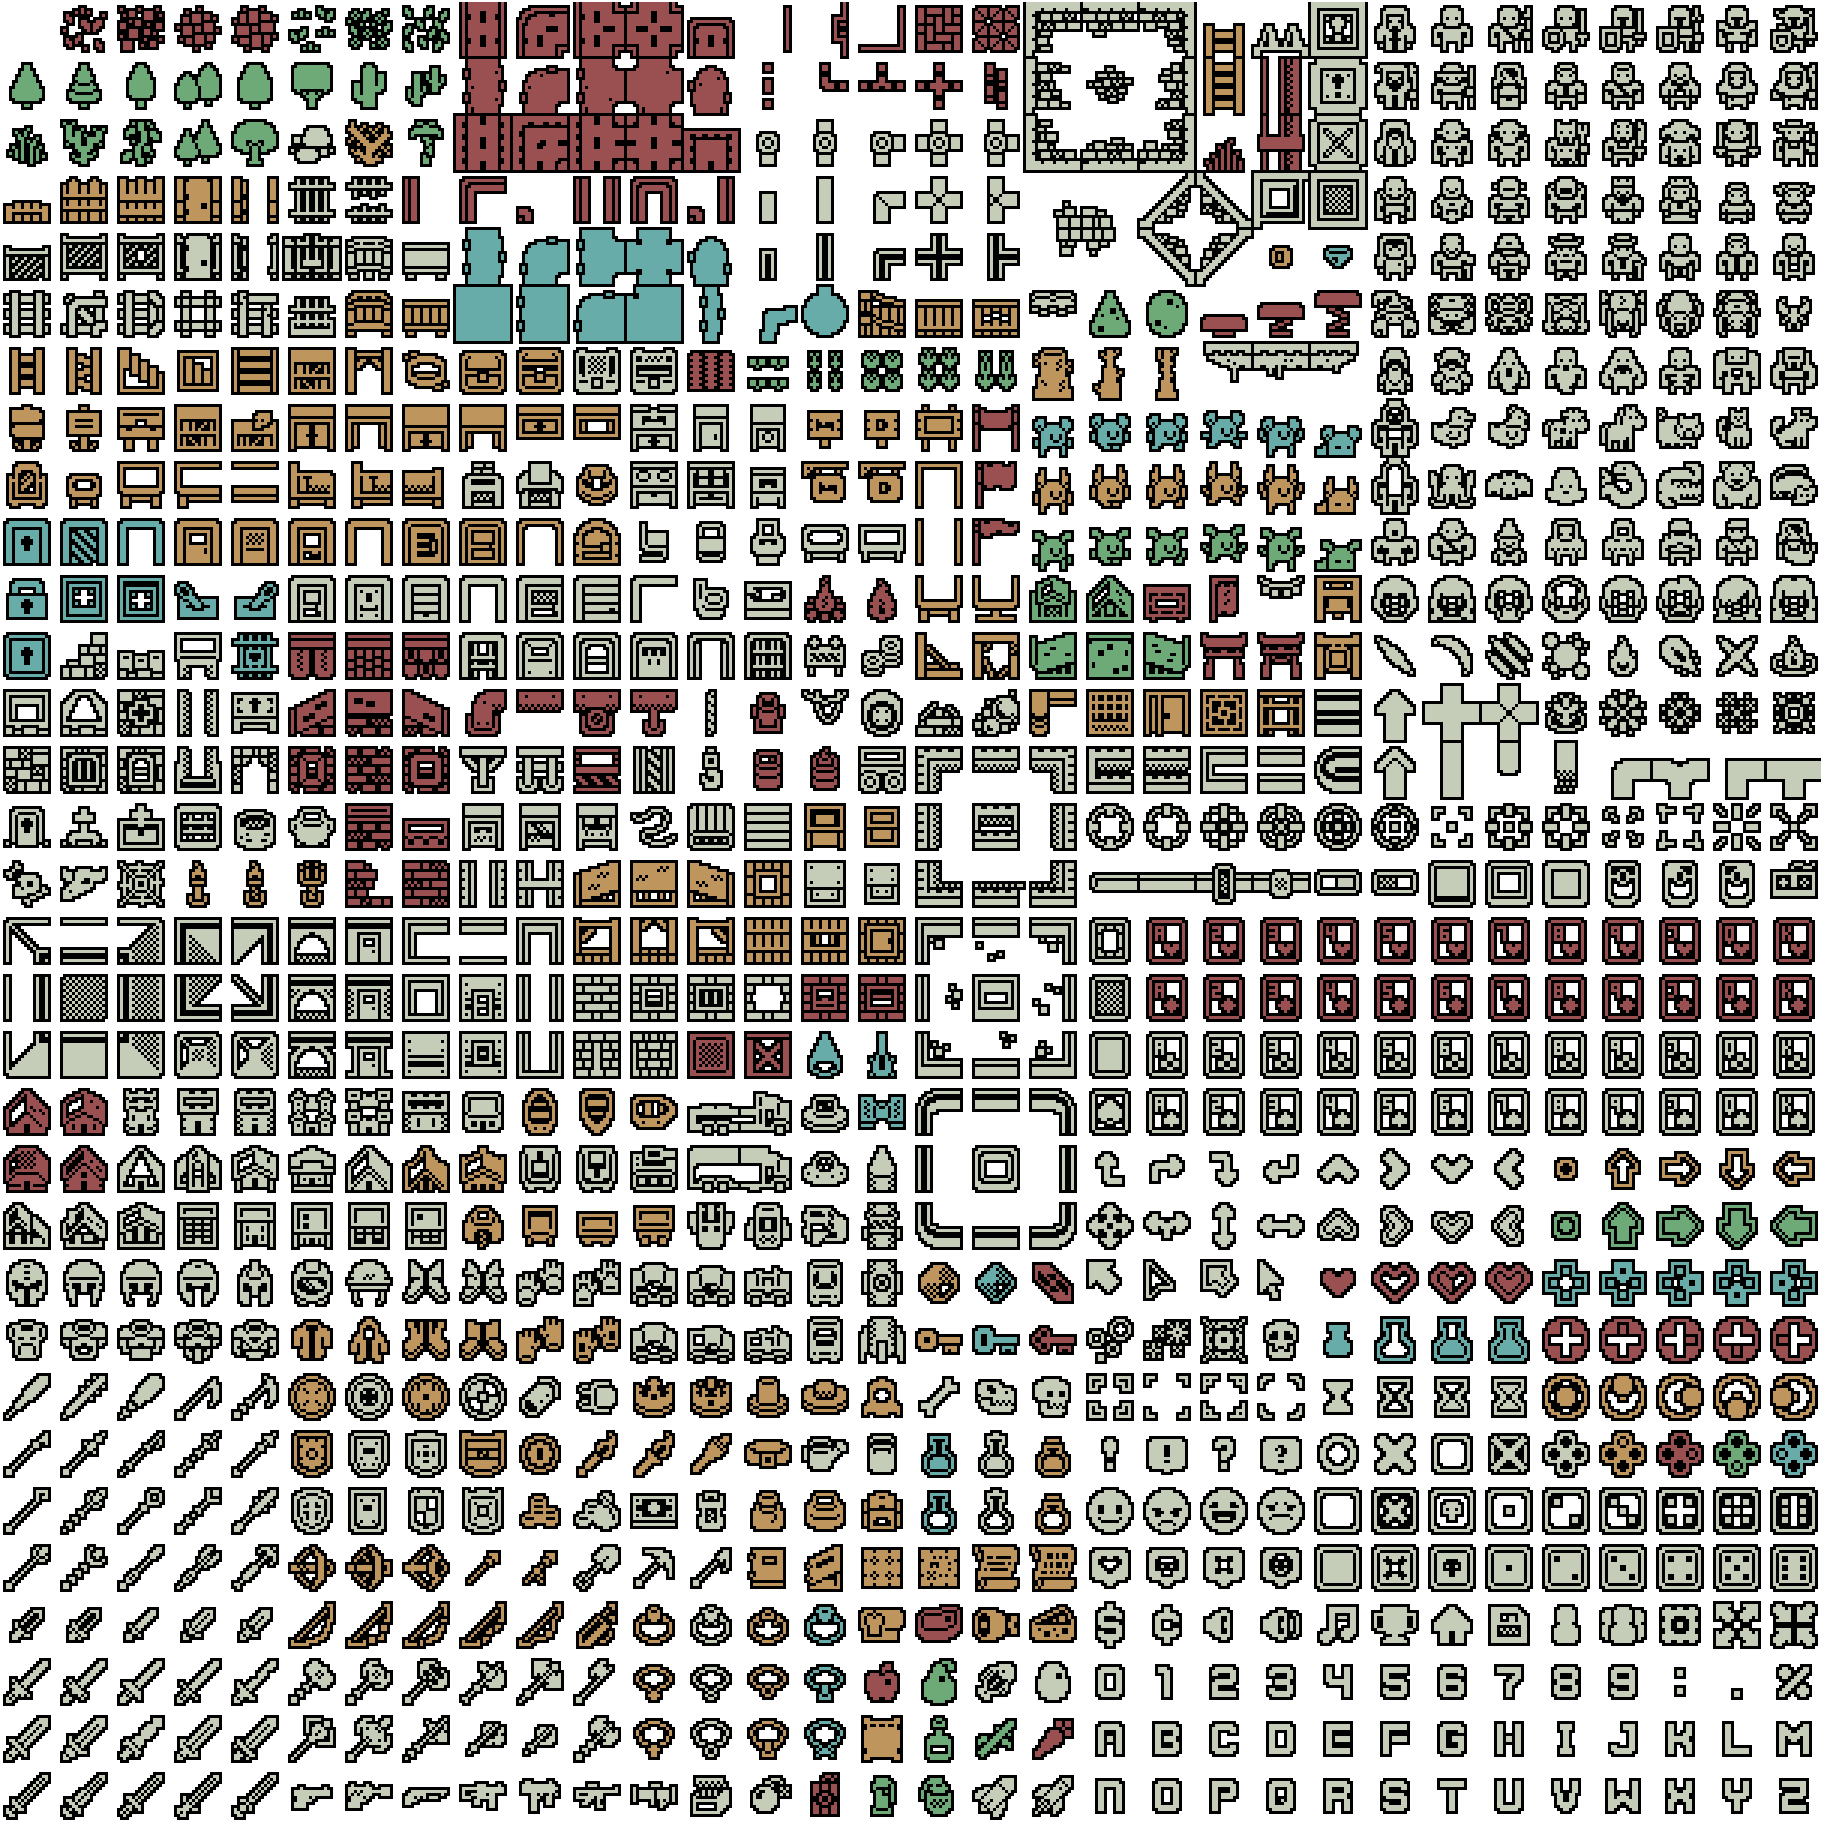
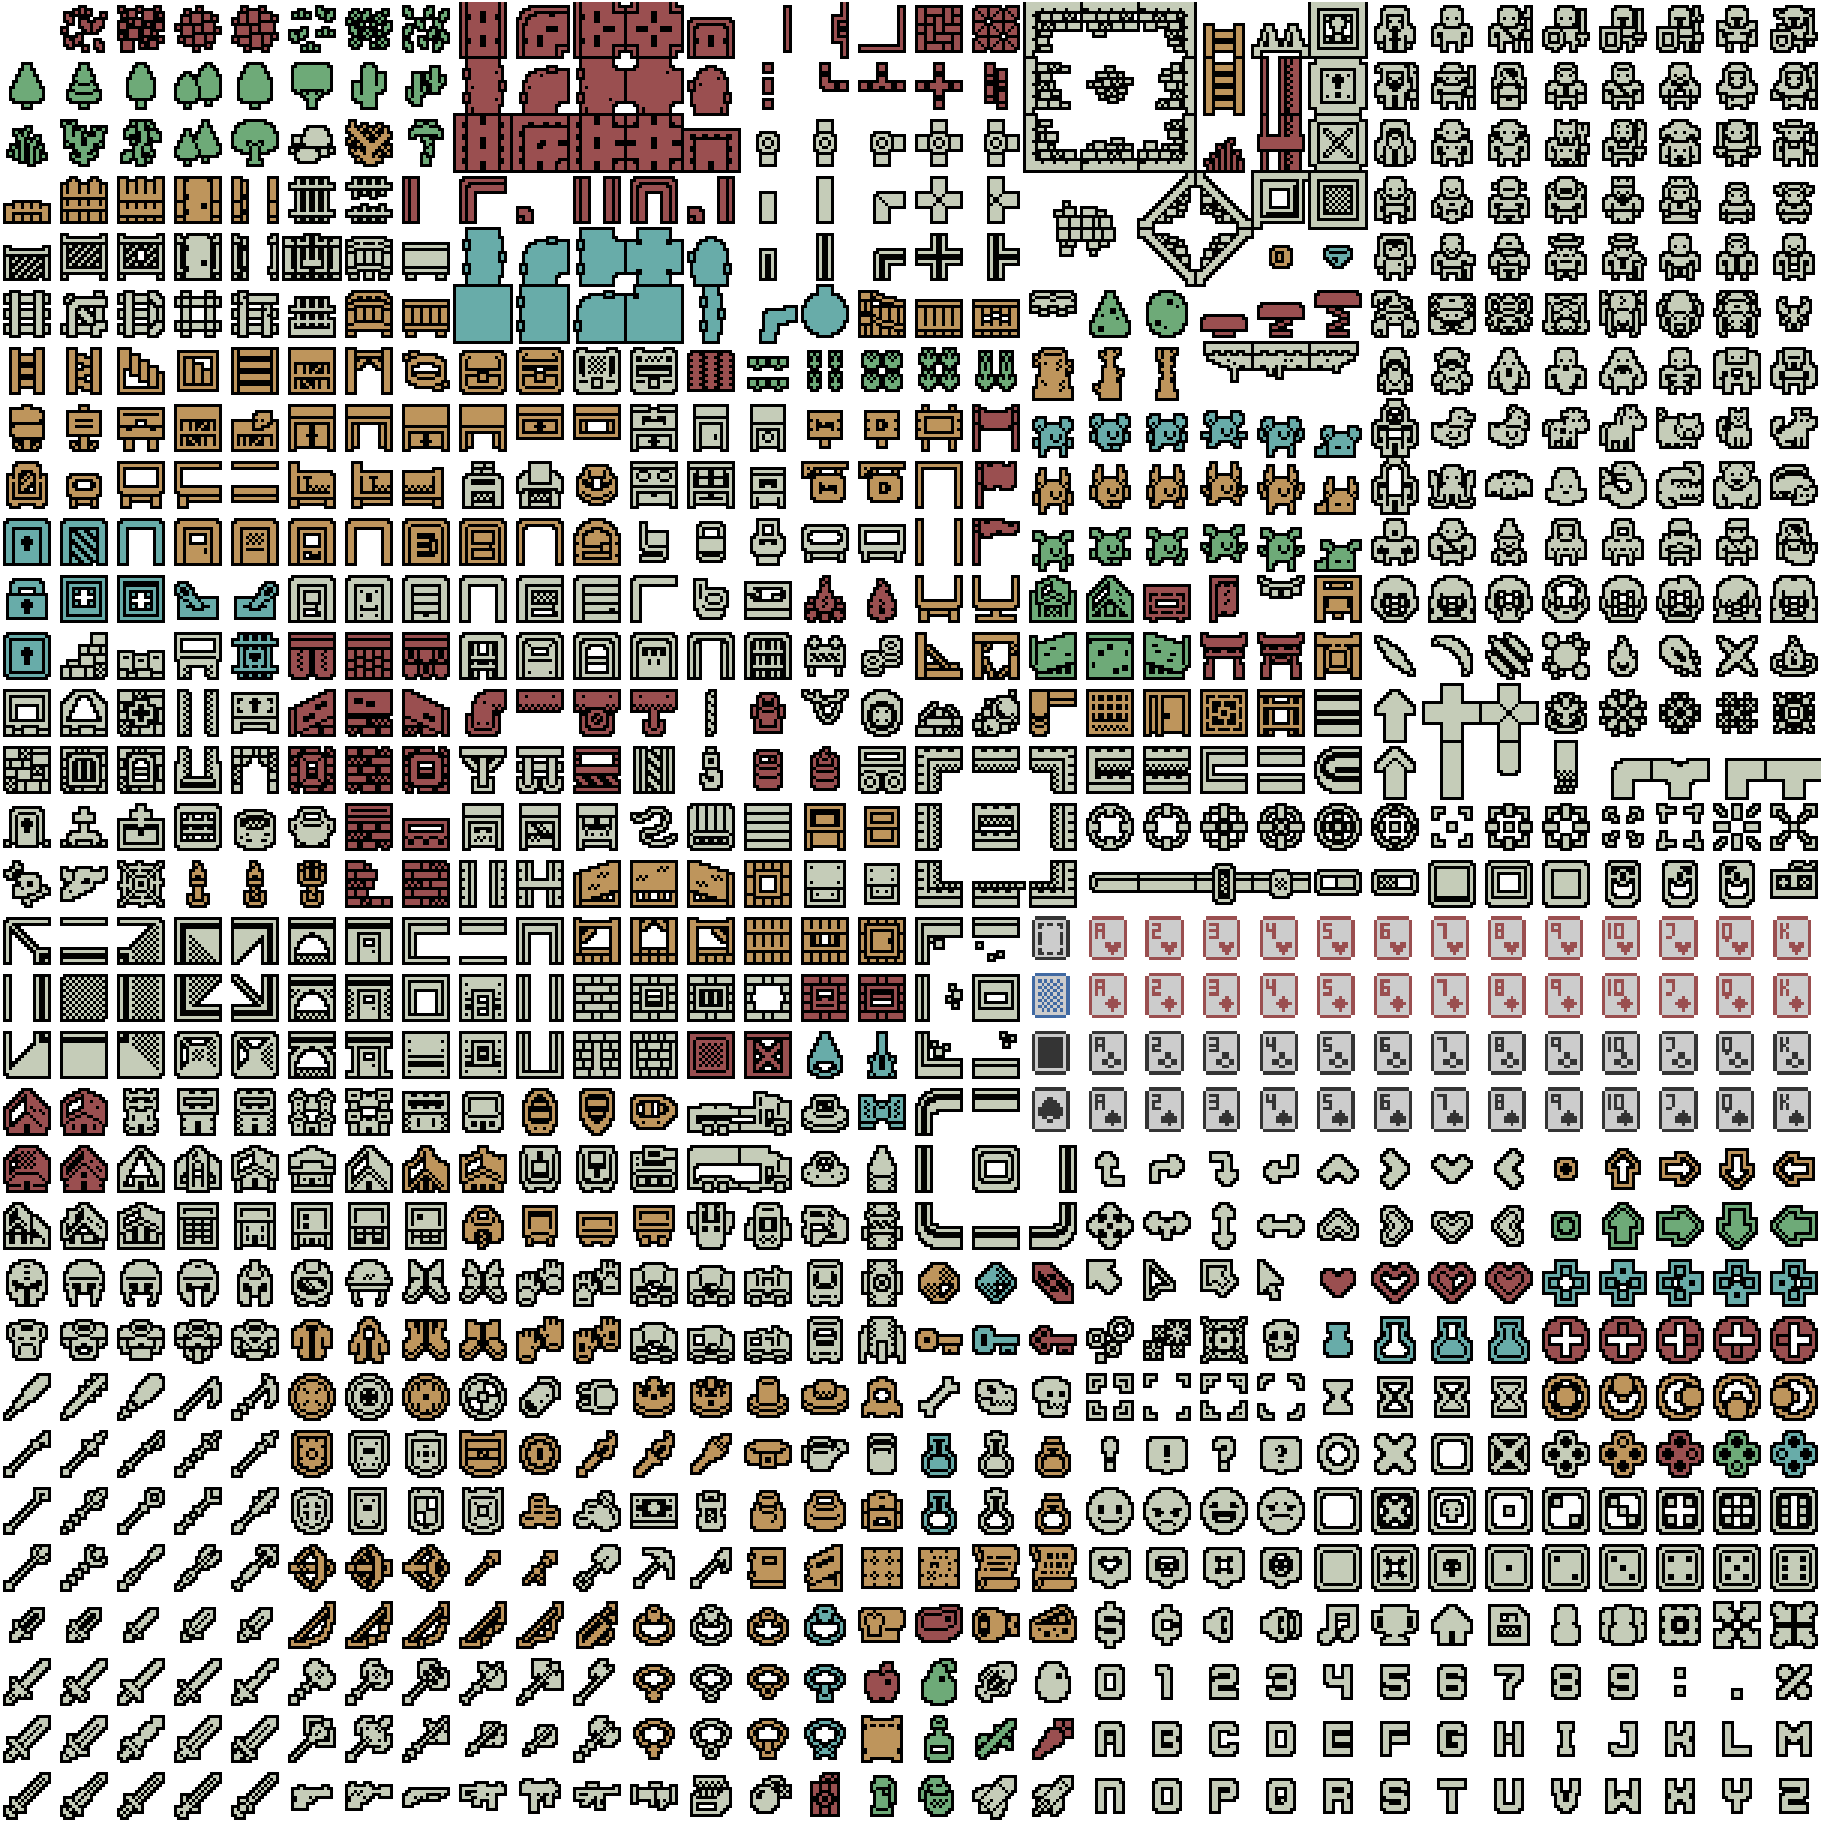
11/10/2020

Changed region(s): [[0.5535, 0.492, 1.0, 0.6458]]

diff --git a/backjack_RPG/Source.cpp b/backjack_RPG/Source.cpp
@@ -2,7 +2,6 @@
 #include <iostream>
 #include <vector>
 #include<stdio.h>
-#include<iostream>
 #include<stdlib.h>
 #include<math.h>
 #include<ctype.h>
@@ -11,6 +10,13 @@
 #include"card.h"
 #include "enemy.h"
 using namespace std;
+
+#define GRID_WIDTH 11
+#define GRID_HEIGHT 11
+#define NORTH 1
+#define EAST 0
+#define SOUTH 2
+#define WEST 3
 
 int enemy_card;
 int hero_card;
@@ -28,8 +34,105 @@ std::vector <int> Deck;
 std::vector <int> hand_hero;
 std::vector <int> hand_enemy;
 int enemynum;
-int level_map =0;
+int level_map = 0;
 std::vector <enemy> Enemyvec;
+std::vector < int > wall_location;
+char grid[GRID_WIDTH * GRID_HEIGHT];
+
+void ResetGrid()
+{
+
+	for (int i = 0; i < GRID_WIDTH * GRID_HEIGHT; ++i)
+	{
+		grid[i] = '1';
+	}
+}
+
+int XYToIndex(int x, int y)
+{
+
+	return y * GRID_WIDTH + x;
+}
+
+int IsInBounds(int x, int y)
+{
+
+	if (x < 0 || x >= GRID_WIDTH)
+		return false;
+	if (y < 0 || y >= GRID_HEIGHT)
+		return false;
+	return true;
+}
+
+void Visit(int x, int y) {
+	grid[XYToIndex(x, y)] = '0';
+	int dirs[4];
+	dirs[0] = NORTH;
+	dirs[1] = EAST;
+	dirs[2] = SOUTH;
+	dirs[3] = WEST;
+	for (int i = 0; i < 4; ++i)
+	{
+		int r = rand() & 3;
+		int temp = dirs[r];
+		dirs[r] = dirs[i];
+		dirs[i] = temp;
+	}
+	for (int i = 0; i < 4; ++i)
+	{
+		int dx = 0, dy = 0;
+		switch (dirs[i])
+		{
+		case NORTH:
+			dy = -1;
+			break;
+		case SOUTH:
+			dy = 1;
+			break;
+		case EAST:
+			dx = 1;
+			break;
+		case WEST:
+			dx = -1;
+			break;
+		}
+		int x2 = x + (dx << 1);
+		int y2 = y + (dy << 1);
+		if (IsInBounds(x2, y2))
+		{
+			if (grid[XYToIndex(x2, y2)] == '1') {
+				grid[XYToIndex(x2 - dx, y2 - dy)] = '0';
+				Visit(x2, y2);
+			}
+		}
+	}
+}
+
+void PrintGrid()
+{
+	for (int y = 0; y < GRID_HEIGHT; ++y)
+	{
+		for (int x = 0; x < GRID_WIDTH; ++x)
+		{
+
+			//cout << grid[XYToIndex(x, y)];
+			wall_location.push_back(grid[XYToIndex(x, y)]);
+			//pushbackwall
+		}
+		//cout << endl;
+	}
+}
+
+
+int randommap() {
+	while (not wall_location.empty()) wall_location.pop_back();
+	srand(time(NULL));
+	ResetGrid();
+	Visit(1,1);
+	PrintGrid();
+	return 0;
+}
+////////////////////////////////////////////////////////////
 
 int pick_card() {
 	srand(time(NULL));
@@ -155,57 +258,24 @@ char card_type(int a) {
 	else if (a == 13 || a == 26 || a == 39 || a == 52) {
 		return('K');
 	}
-	else {
-		return(' ');
-	}
 }
 
 
 
 int main() {
-	sf::RenderWindow window(sf::VideoMode(500, 500), "Black_jack_rpg0.1", sf::Style::Close | sf::Style::Resize);
-	window.setFramerateLimit(60);
-	//card tc(&dkj);
-	//tc.info.point
-	//deck.push_back(tc);
-	//for (card& Card : deck) Card.draw(window);
+	randommap();
+	sf::RenderWindow window(sf::VideoMode(550, 550), "Black_jack_rpg0.1", sf::Style::Close | sf::Style::Resize);
+	window.setFramerateLimit(30);
 	sf::Texture Texture;
 	Texture.loadFromFile("new2.png");
 	sf::Vector2u textureSize = Texture.getSize();
 	float x_size = textureSize.x / 32.000000;
 	float y_size = textureSize.y / 32.000000;
-	// card
-	//card tc(&dkj);
 
-	int wall_location[10][100] =
-		//1
-	{ { 1, 1, 1, 1, 1, 1, 1, 1, 1, 1,
-		1, 0, 0, 0, 0, 0, 0, 0, 0, 1,
-		1, 0, 0, 0, 0, 0, 0, 0, 0, 1,
-		1, 0, 0, 0, 0, 0, 0, 0, 0, 1,
-		1, 0, 0, 0, 0, 0, 0, 0, 0, 1,
-		1, 0, 0, 0, 0, 0, 0, 0, 0, 1,
-		1, 0, 0, 0, 0, 0, 0, 0, 0, 1,
-		1, 0, 0, 0, 0, 0, 0, 0, 0, 1,
-		1, 0, 0, 0, 0, 0, 0, 0, 0, 1,
-		1, 1, 1, 1, 1, 1, 1, 1, 1, 1 },
-		//2
-	{   1, 1, 1, 1, 1, 1, 1, 1, 1, 1,
-		1, 0, 1, 0, 0, 0, 1, 0, 0, 1,
-		1, 0, 1, 0, 1, 0, 1, 0, 0, 1,
-		1, 0, 1, 0, 1, 0, 1, 0, 0, 1,
-		1, 0, 1, 0, 1, 0, 1, 0, 0, 1,
-		1, 0, 1, 0, 1, 0, 1, 0, 0, 1,
-		1, 0, 1, 0, 1, 0, 1, 0, 0, 1,
-		1, 0, 1, 0, 1, 0, 1, 0, 0, 1,
-		1, 0, 0, 0, 1, 0, 0, 0, 0, 1,
-		1, 1, 1, 1, 1, 1, 1, 1, 1, 1 }
-	};
+	
 
 	std::vector<sf::RectangleShape> Wall;
 	sf::RectangleShape wall(sf::Vector2f(50.0f, 50.0f));
-	
-
 
 
 	//player
@@ -220,18 +290,48 @@ int main() {
 
 
 	//enemy
-	enemy x(&Texture, 2,1, 100, 100);
+	
+
+	//card
+	std::vector<sf::RectangleShape> Card;
+	for (float i = 0; i <= 52; i++) {
+		if (i <= 13 && i > 0) {
+			sf::RectangleShape card(sf::Vector2f(30.0f, 30.0f));
+			card.setTexture(&Texture);
+			card.setTextureRect(sf::IntRect(x_size * (18.00000 + i), y_size * 16.00000, x_size, y_size));
+			Card.push_back(card);
+		}
+		else if (i > 13 && i <= 26) {
+			sf::RectangleShape card(sf::Vector2f(30.0f, 30.0f));
+			card.setTexture(&Texture);
+			card.setTextureRect(sf::IntRect(x_size * (18.00000 + i - 13), y_size * 17.00000, x_size, y_size));
+			Card.push_back(card);
+		}
+		else if (i > 26 && i <= 39) {
+			sf::RectangleShape card(sf::Vector2f(30.0f, 30.0f));
+			card.setTexture(&Texture);
+			card.setTextureRect(sf::IntRect(x_size * (18.00000 + i - 26), y_size * 18.00000, x_size, y_size));
+			Card.push_back(card);
+		}
+		else if (i > 39) {
+			sf::RectangleShape card(sf::Vector2f(30.0f, 30.0f));
+			card.setTexture(&Texture);
+			card.setTextureRect(sf::IntRect(x_size * (18.00000 + i - 39), y_size * 19.00000, x_size, y_size));
+			Card.push_back(card);
+		}
+	}
+
+	enemy x(&Texture, 2, 2, 100, 100);
 	x.Enemy.setTexture(&Texture);
 	Enemyvec.push_back(x);
 
-	enemy a(&Texture, 1, 1, 300, 100);
+	enemy a(&Texture, 1, 2, 300, 100);
 	a.Enemy.setTexture(&Texture);
 	Enemyvec.push_back(a);
 
-	enemy b(&Texture,3 ,1, 400, 100);
+	enemy b(&Texture, 3, 2, 400, 100);
 	b.Enemy.setTexture(&Texture);
 	Enemyvec.push_back(b);
-
 
 
 	///////////////////////////////////////////////////////////////////////////////////////////////////////////////////////////////////////////////
@@ -251,39 +351,24 @@ int main() {
 				}
 			}
 		}
-		/*
-		if (Enemyvec.size() == 0) {
-			level_map++;
-			enemy x(&Texture, 1, 1, 100, 100);
-			x.Enemy.setTexture(&Texture);
-			Enemyvec.push_back(x);
-
-			enemy a(&Texture, 1, 1, 300, 100);
-			a.Enemy.setTexture(&Texture);
-			Enemyvec.push_back(a);
-
-			enemy b(&Texture, 1, 1, 400, 100);
-			b.Enemy.setTexture(&Texture);
-			Enemyvec.push_back(b);
-		}
-		*/
 		int row = 0;
 		int row_count = 0;
-		for (int i = 0; i <= 99; i++) {
-			if (row_count == 10) {
+		while (not Wall.empty()) Wall.pop_back();
+		for (int i = 0; i < GRID_WIDTH * GRID_HEIGHT; i++) {
+			if (row_count == GRID_WIDTH) {
 				//printf("*");
 				row_count = 0;
 				row += 1;
 			}
-			if (wall_location[level_map][i] == 1) {
+			if (wall_location[i] == '1') {
 				wall.setPosition(50 * row_count, row * 50);
 				wall.setTexture(&Texture);
 				wall.setTextureRect(sf::IntRect(x_size * 23.00000, y_size * 3.00000, x_size, y_size));
-				wall.setRotation(0.f);
 				Wall.push_back(wall);
 			}
 			row_count += 1;
 		}
+		
 		if (sf::Keyboard::isKeyPressed(sf::Keyboard::Key::A)) {
 			player.move(-50.f, 0.f);
 			walk = 1;
@@ -316,6 +401,13 @@ int main() {
 			player_posy += 1;
 			//printf("position x = %d position y = %d", player_posx, player_posy);
 		}
+		else if (sf::Keyboard::isKeyPressed(sf::Keyboard::Key::R)) {
+
+			randommap();
+			while (sf::Keyboard::isKeyPressed(sf::Keyboard::R)) {
+			}
+		}
+		
 		for (int i = 0; i < Enemyvec.size(); i++) {
 			if (player.getGlobalBounds().intersects(Enemyvec[i].Enemy.getGlobalBounds()) && (Enemyvec[i].GetHp()) > 0) {
 				if (walk == 1) {
@@ -338,7 +430,7 @@ int main() {
 				enemynum = i;
 			}
 		}
-		
+
 		for (int i = 0; i < Wall.size(); i++) {
 			if (player.getGlobalBounds().intersects(Wall[i].getGlobalBounds())) {
 				if (walk == 1) {
@@ -443,8 +535,20 @@ int main() {
 			}
 		}
 		window.draw(player);
+		/*
+		int h = 0;
+		int c = 0;
+		for (int i = 0; i < 52; i++)
+		{
+			Card[i].setPosition(50+c,50);
+			window.draw(Card[i]);
+			c += 15;
+			
+		}
+		*/
 		//window.draw(playercard);
 		window.display();
 	}
 	return 0;
+	
 }
